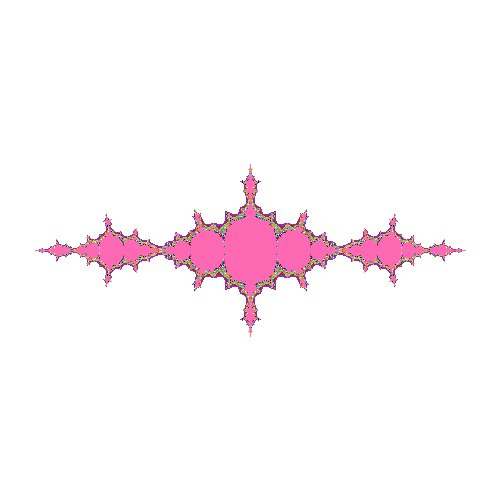
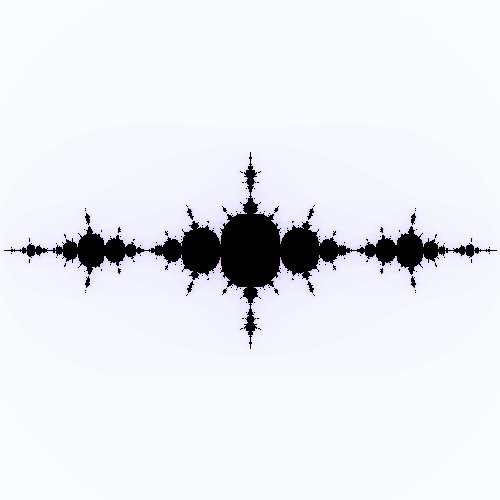
放大，颜色优化

Changed region(s): [[0.0, 0.3, 0.99, 0.69]]

diff --git a/fractal/colors.py b/fractal/colors.py
@@ -1,2 +1,11 @@
-colors = [[255, 250, 250], [187, 255, 255], [248, 248, 255], [174, 238, 238], [245, 245, 245], [150, 205, 205], [220, 220, 220], [102, 139, 139], [255, 250, 240], [152, 245, 255], [253, 245, 230], [142, 229, 238], [250, 240, 230], [122, 197, 205], [250, 235, 215], [83, 134, 139], [255, 239, 213], [0, 245, 255], [255, 235, 205], [0, 229, 238], [255, 228, 196], [0, 197, 205], [255, 218, 185], [0, 134, 139], [255, 222, 173], [0, 255, 255], [255, 228, 181], [0, 238, 238], [255, 248, 220], [0, 205, 205], [255, 255, 240], [0, 139, 139], [255, 250, 205], [151, 255, 255], [255, 245, 238], [141, 238, 238], [240, 255, 240], [121, 205, 205], [245, 255, 250], [82, 139, 139], [240, 255, 255], [127, 255, 212], [240, 248, 255], [118, 238, 198], [230, 230, 250], [102, 205, 170], [255, 240, 245], [69, 139, 116], [255, 228, 225], [193, 255, 193], [255, 255, 255], [180, 238, 180], [0, 0, 0], [155, 205, 155], [47, 79, 79], [105, 139, 105], [105, 105, 105], [84, 255, 159], [112, 128, 144], [78, 238, 148], [119, 136, 153], [67, 205, 128], [190, 190, 190], [46, 139, 87], [211, 211, 211], [154, 255, 154], [25, 25, 112], [144, 238, 144], [0, 0, 128], [124, 205, 124], [100, 149, 237], [84, 139, 84], [72, 61, 139], [0, 255, 127], [106, 90, 205], [0, 238, 118], [123, 104, 238], [0, 205, 102], [132, 112, 255], [0, 139, 69], [0, 0, 205], [0, 255, 0], [65, 105, 225], [0, 238, 0], [0, 0, 255], [0, 205, 0], [30, 144, 255], [0, 139, 0], [0, 191, 255], [127, 255, 0], [135, 206, 235], [118, 238, 0], [135, 206, 250], [102, 205, 0], [70, 130, 180], [69, 139, 0], [176, 196, 222], [192, 255, 62], [173, 216, 230], [179, 238, 58], [176, 224, 230], [154, 205, 50], [175, 238, 238], [105, 139, 34], [0, 206, 209], [202, 255, 112], [72, 209, 204], [188, 238, 104], [64, 224, 208], [162, 205, 90], [0, 255, 255], [110, 139, 61], [224, 255, 255], [255, 246, 143], [95, 158, 160], [238, 230, 133], [102, 205, 170], [205, 198, 115], [127, 255, 212], [139, 134, 78], [0, 100, 0], [255, 236, 139], [85, 107, 47], [238, 220, 130], [143, 188, 143], [205, 190, 112], [46, 139, 87], [139, 129, 76], [60, 179, 113], [255, 255, 224], [32, 178, 170], [238, 238, 209], [152, 251, 152], [205, 205, 180], [0, 255, 127], [139, 139, 122], [124, 252, 0], [255, 255, 0], [0, 255, 0], [238, 238, 0], [127, 255, 0], [205, 205, 0], [0, 250, 154], [139, 139, 0], [173, 255, 47], [255, 215, 0], [50, 205, 50], [238, 201, 0], [154, 205, 50], [205, 173, 0], [34, 139, 34], [139, 117, 0], [107, 142, 35], [255, 193, 37], [189, 183, 107], [238, 180, 34], [238, 232, 170], [205, 155, 29], [250, 250, 210], [139, 105, 20], [255, 255, 224], [255, 185, 15], [255, 255, 0], [238, 173, 14], [255, 215, 0], [205, 149, 12], [238, 221, 130], [139, 101, 139], [218, 165, 32], [255, 193, 193], [184, 134, 11], [238, 180, 180], [188, 143, 143], [205, 155, 155], [205, 92, 92], [139, 105, 105], [139, 69, 19], [255, 106, 106], [160, 82, 45], [238, 99, 99], [205, 133, 63], [205, 85, 85], [222, 184, 135], [139, 58, 58], [245, 245, 220], [255, 130, 71], [245, 222, 179], [238, 121, 66], [244, 164, 96], [205, 104, 57], [210, 180, 140], [139, 71, 38], [210, 105, 30], [255, 211, 155], [178, 34, 34], [238, 197, 145], [165, 42, 42], [205, 170, 125], [233, 150, 122], [139, 115, 85], [250, 128, 114], [255, 231, 186], [255, 160, 122], [238, 216, 174], [255, 165, 0], [205, 186, 150], [255, 140, 0], [139, 126, 102], [255, 127, 80], [255, 165, 79], [240, 128, 128], [238, 154, 73], [255, 99, 71], [205, 133, 63], [255, 69, 0], [139, 90, 43], [255, 0, 0], [255, 127, 36], [255, 105, 180], [238, 118, 33], [255, 20, 147], [205, 102, 29], [255, 192, 203], [139, 69, 19], [255, 182, 193], [255, 48, 48], [219, 112, 147], [238, 44, 44], [
-    176, 48, 96], [205, 38, 38], [199, 21, 133], [139, 26, 26], [208, 32, 144], [255, 64, 64], [255, 0, 255], [238, 59, 59], [238, 130, 238], [205, 51, 51], [221, 160, 221], [139, 35, 35], [218, 112, 214], [255, 140, 105], [186, 85, 211], [238, 130, 98], [153, 50, 204], [205, 112, 84], [148, 0, 211], [139, 76, 57], [138, 43, 226], [255, 160, 122], [160, 32, 240], [238, 149, 114], [147, 112, 219], [205, 129, 98], [216, 191, 216], [139, 87, 66], [255, 250, 250], [255, 165, 0], [238, 233, 233], [238, 154, 0], [205, 201, 201], [205, 133, 0], [139, 137, 137], [139, 90, 0], [255, 245, 238], [255, 127, 0], [238, 229, 222], [238, 118, 0], [205, 197, 191], [205, 102, 0], [139, 134, 130], [139, 69, 0], [255, 239, 219], [255, 114, 86], [238, 223, 204], [238, 106, 80], [205, 192, 176], [205, 91, 69], [139, 131, 120], [139, 62, 47], [255, 228, 196], [255, 99, 71], [238, 213, 183], [238, 92, 66], [205, 183, 158], [205, 79, 57], [139, 125, 107], [139, 54, 38], [255, 218, 185], [255, 69, 0], [238, 203, 173], [238, 64, 0], [205, 175, 149], [205, 55, 0], [139, 119, 101], [139, 37, 0], [255, 222, 173], [255, 0, 0], [238, 207, 161], [238, 0, 0], [205, 179, 139], [205, 0, 0], [139, 121, 94], [139, 0, 0], [255, 250, 205], [255, 20, 147], [238, 233, 191], [238, 18, 137], [205, 201, 165], [205, 16, 118], [139, 137, 112], [139, 10, 80], [255, 248, 220], [255, 110, 180], [238, 232, 205], [238, 106, 167], [205, 200, 177], [205, 96, 144], [139, 136, 120], [139, 58, 98], [255, 255, 240], [255, 181, 197], [238, 238, 224], [238, 169, 184], [205, 205, 193], [205, 145, 158], [139, 139, 131], [139, 99, 108], [240, 255, 240], [255, 174, 185], [224, 238, 224], [238, 162, 173], [193, 205, 193], [205, 140, 149], [131, 139, 131], [139, 95, 101], [255, 240, 245], [255, 130, 171], [238, 224, 229], [238, 121, 159], [205, 193, 197], [205, 104, 137], [139, 131, 134], [139, 71, 93], [255, 228, 225], [255, 52, 179], [238, 213, 210], [238, 48, 167], [205, 183, 181], [205, 41, 144], [139, 125, 123], [139, 28, 98], [240, 255, 255], [255, 62, 150], [224, 238, 238], [238, 58, 140], [193, 205, 205], [205, 50, 120], [131, 139, 139], [139, 34, 82], [131, 111, 255], [255, 0, 255], [122, 103, 238], [238, 0, 238], [105, 89, 205], [205, 0, 205], [71, 60, 139], [139, 0, 139], [72, 118, 255], [255, 131, 250], [67, 110, 238], [238, 122, 233], [58, 95, 205], [205, 105, 201], [39, 64, 139], [139, 71, 137], [0, 0, 255], [255, 187, 255], [0, 0, 238], [238, 174, 238], [0, 0, 205], [205, 150, 205], [0, 0, 139], [139, 102, 139], [30, 144, 255], [224, 102, 255], [28, 134, 238], [209, 95, 238], [24, 116, 205], [180, 82, 205], [16, 78, 139], [122, 55, 139], [99, 184, 255], [191, 62, 255], [92, 172, 238], [178, 58, 238], [79, 148, 205], [154, 50, 205], [54, 100, 139], [104, 34, 139], [0, 191, 255], [155, 48, 255], [0, 178, 238], [145, 44, 238], [0, 154, 205], [125, 38, 205], [0, 104, 139], [85, 26, 139], [135, 206, 255], [171, 130, 255], [126, 192, 238], [159, 121, 238], [108, 166, 205], [137, 104, 205], [74, 112, 139], [93, 71, 139], [176, 226, 255], [255, 225, 255], [164, 211, 238], [238, 210, 238], [141, 182, 205], [205, 181, 205], [96, 123, 139], [139, 123, 139], [198, 226, 255], [28, 28, 28], [185, 211, 238], [54, 54, 54], [159, 182, 205], [79, 79, 79], [108, 123, 139], [105, 105, 105], [202, 225, 255], [130, 130, 130], [188, 210, 238], [156, 156, 156], [162, 181, 205], [181, 181, 181], [110, 123, 139], [207, 207, 207], [191, 239, 255], [232, 232, 232], [178, 223, 238], [169, 169, 169], [154, 192, 205], [0, 0, 139], [104, 131, 139], [0, 139, 139], [224, 255, 255], [139, 0, 139], [209, 238, 238], [139, 0, 0], [180, 205, 205], [122, 139, 139], [144, 238, 144]]
+blues = [(250, 251, 255), (250, 251, 255), (249, 250, 254), (248, 249, 253), (247, 248, 253), (246, 247, 252), (245, 245, 253), (245, 245, 253), (244, 244, 254), (243, 243, 253), (242, 242, 254), (242, 242, 254), (242, 241, 255), (241, 240, 254), (239, 238, 252), (237, 236, 250), (236, 235, 253), (236, 234, 255), (236, 234, 255), (235, 233, 254), (233, 231, 252), (232, 230, 252), (230, 228, 250), (229, 227, 251), (230, 227, 254), (229, 226, 253), (228, 225, 254), (227, 224, 253), (226, 223, 252), (224, 221, 252), (223, 220, 251), (223, 220, 251), (217, 215, 254), (217, 215, 254), (216, 214, 253), (215, 213, 252), (213, 211, 251), (212, 209, 252), (211, 208, 253), (211, 208, 253), (208, 205, 252), (207, 203, 253), (206, 202, 253), (204, 200, 251), (203, 198, 252), (201, 196, 250), (200, 195, 251), (199, 194, 250), (197, 194, 251), (196, 192, 251), (195, 191, 250), (193, 189, 250), (192, 187, 251), (190, 185, 249), (189, 184, 250), (188, 182, 252), (187, 181, 253), (185, 179, 253), (182, 175, 252), (181, 174, 252), (181, 174, 252), (180, 173, 253), (178, 170, 253), (176, 168, 251), (175, 166, 255), (173, 164, 253), (171, 162, 251), (170, 161, 252), (170, 161, 254), (169, 159, 255), (166, 156, 253), (164, 154, 253), (164, 153, 255), (162, 151, 255), (159, 148, 253), (158, 146, 254), (157, 145, 255), (156, 144, 254), (153, 141, 253), (151, 139, 251), (148, 137, 255), (148, 137, 255), (146, 135, 253), (144, 133, 253),
+         (142, 131, 253), (140, 128, 252), (139, 127, 253), (138, 126, 254), (138, 125, 255), (136, 123, 255), (134, 120, 255), (132, 118, 255), (131, 117, 255), (130, 116, 255), (128, 113, 254), (126, 111, 252), (122, 108, 253), (121, 107, 252), (120, 106, 251), (119, 105, 252), (117, 103, 252), (115, 100, 251), (114, 99, 252), (113, 98, 253), (111, 95, 253), (110, 94, 253), (109, 93, 254), (107, 90, 254), (105, 88, 254), (104, 87, 253), (103, 86, 254), (102, 85, 253), (98, 81, 255), (98, 81, 255), (96, 79, 255), (95, 78, 254), (93, 76, 253), (91, 73, 253), (90, 72, 254), (90, 72, 255), (87, 68, 254), (86, 67, 255), (85, 66, 255), (83, 63, 255), (82, 62, 255), (80, 60, 255), (79, 59, 255), (78, 58, 254), (76, 55, 255), (76, 55, 255), (74, 53, 254), (73, 52, 255), (71, 50, 253), (69, 47, 252), (68, 46, 253), (68, 46, 255), (65, 43, 252), (64, 41, 253), (63, 40, 254), (62, 38, 254), (61, 37, 253), (59, 35, 253), (58, 34, 252), (58, 34, 252), (54, 32, 254), (54, 32, 255), (53, 31, 254), (51, 29, 252), (50, 27, 253), (49, 26, 254), (48, 25, 253), (47, 24, 254), (45, 21, 253), (45, 21, 255), (44, 20, 255), (43, 19, 255), (42, 17, 255), (41, 16, 255), (41, 16, 255), (40, 15, 255), (36, 12, 254), (36, 12, 254), (35, 11, 253), (34, 10, 252), (33, 9, 253), (32, 8, 252), (32, 8, 254), (31, 7, 253), (30, 5, 254), (30, 5, 254), (29, 4, 254), (28, 3, 253), (27, 2, 254), (26, 1, 253), (26, 1, 253), (25, 0, 252), (25, 0, 252)]
+
+reds = [(253, 252, 250), (253, 252, 250), (252, 251, 249), (252, 251, 249), (253, 249, 248), (252, 248, 247), (253, 247, 247), (252, 246, 246), (254, 245, 246), (253, 244, 245), (253, 243, 244), (252, 242, 243), (252, 240, 242), (251, 239, 241), (251, 239, 241), (250, 238, 240), (252, 236, 237), (252, 236, 237), (253, 234, 236), (252, 233, 235), (252, 232, 234), (251, 231, 233), (252, 230, 233), (253, 228, 232), (252, 225, 230), (252, 225, 230), (253, 224, 229), (253, 222, 228), (253, 220, 227), (252, 219, 226), (252, 219, 226), (251, 218, 225), (254, 214, 222), (254, 214, 222), (253, 213, 221), (252, 212, 220), (252, 211, 219), (252, 209, 218), (254, 208, 218), (253, 207, 217), (253, 206, 216), (254, 204, 215), (254, 202, 214), (253, 201, 213), (252, 198, 211), (251, 197, 210), (252, 196, 209), (252, 196, 209), (253, 193, 205), (253, 191, 204), (252, 190, 203), (252, 188, 202), (250, 186, 200), (251, 185, 197), (251, 183, 196), (253, 182, 196), (253, 179, 194), (254, 178, 191), (254, 176, 190), (255, 174, 189), (254, 173, 188), (253, 170, 186), (252, 170, 184), (253, 169, 184), (254, 165, 183), (253, 164, 182), (251, 162, 180), (252, 161, 179), (253, 160, 179), (252, 159, 178), (253, 156, 175), (252, 153, 173), (253, 151, 172), (253, 150, 171), (254, 148, 168), (254, 147, 167), (254, 145, 166), (252, 143, 164), (253, 141, 163), (253, 141, 163), (254, 136, 162), (254, 136, 162), (253, 135, 159), (252, 132, 157), (253, 131, 156), (252, 130, 155),
+        (254, 127, 154), (254, 126, 151), (254, 124, 150), (254, 121, 148), (253, 119, 146), (254, 117, 143), (255, 117, 143), (254, 116, 142), (253, 113, 140), (251, 111, 138), (254, 109, 140), (253, 108, 139), (252, 107, 138), (252, 104, 136), (252, 103, 133), (251, 100, 131), (252, 99, 130), (252, 97, 129), (252, 95, 126), (253, 94, 126), (253, 92, 125), (254, 90, 124), (253, 88, 120), (252, 87, 119), (253, 85, 118), (252, 84, 117), (253, 82, 116), (252, 81, 115), (251, 80, 114), (252, 78, 113), (251, 75, 111), (252, 74, 110), (252, 72, 109), (253, 71, 109), (253, 69, 107), (253, 67, 106), (254, 65, 105), (254, 63, 104), (254, 62, 103), (252, 60, 101), (253, 58, 100), (253, 58, 100), (255, 55, 94), (255, 55, 94), (255, 53, 93), (253, 51, 91), (254, 49, 90), (254, 47, 89), (253, 46, 88), (254, 45, 87), (254, 43, 86), (255, 42, 86), (255, 41, 85), (254, 39, 83), (254, 37, 82), (253, 36, 81), (254, 34, 80), (253, 33, 79), (253, 32, 75), (253, 32, 75), (252, 31, 74), (252, 29, 73), (251, 28, 72), (252, 27, 71), (253, 26, 71), (254, 24, 70), (253, 22, 68), (253, 22, 68), (253, 20, 67), (254, 18, 66), (253, 17, 65), (253, 15, 64), (253, 15, 64), (252, 14, 63), (253, 11, 59), (253, 11, 59), (253, 11, 59), (253, 10, 58), (252, 9, 57), (254, 8, 57), (253, 7, 56), (254, 6, 56), (253, 5, 55), (255, 4, 55), (254, 3, 54), (255, 3, 54), (254, 2, 53), (253, 1, 52), (254, 0, 52), (253, 0, 51), (255, 0, 58), (204, 25, 64), (175, 140, 136), (225, 249, 233)]
+
+purples = [(235, 233, 236), (235, 233, 236), (235, 233, 236), (236, 231, 235), (235, 230, 236), (235, 230, 236), (234, 229, 236), (234, 229, 236), (237, 229, 240), (236, 228, 239), (235, 227, 240), (236, 225, 239), (235, 224, 240), (234, 223, 239), (234, 223, 239), (233, 222, 238), (234, 221, 239), (233, 220, 238), (232, 219, 237), (232, 219, 237), (230, 217, 237), (230, 217, 237), (230, 215, 238), (229, 214, 237), (228, 212, 238), (229, 211, 237), (228, 209, 237), (228, 209, 237), (226, 207, 237), (226, 207, 237), (225, 206, 236), (225, 204, 235), (225, 200, 239), (225, 200, 239), (224, 199, 238), (223, 198, 237), (223, 196, 237), (222, 195, 236), (223, 194, 238), (222, 193, 237), (222, 190, 237), (222, 190, 237), (222, 188, 238), (221, 187, 237), (221, 184, 236), (220, 183, 235), (219, 182, 234), (218, 181, 233), (218, 179, 236), (218, 179, 236), (217, 177, 237), (216, 176, 236), (215, 173, 236), (214, 172, 235), (215, 170, 235), (215, 170, 237), (214, 167, 237), (213, 166, 236), (214, 164, 237), (213, 162, 237), (213, 160, 238), (211, 158, 236), (210, 157, 235), (210, 157, 235), (210, 155, 238), (209, 154, 237), (210, 152, 237), (209, 151, 236), (208, 150, 237), (207, 147, 235), (206, 146, 236), (208, 144, 238), (206, 142, 238), (206, 140, 238), (205, 139, 237), (205, 137, 238), (204, 136, 239), (205, 134, 238), (204, 133, 237), (203, 132, 238), (202, 128, 239), (202, 128, 239), (203, 126, 238), (201, 124, 238), (200, 123, 237),
+           (200, 121, 238), (199, 120, 239), (199, 118, 238), (197, 116, 237), (198, 114, 238), (197, 112, 239), (197, 111, 238), (195, 108, 238), (196, 106, 238), (195, 105, 237), (195, 105, 237), (192, 102, 236), (191, 101, 235), (191, 99, 236), (190, 98, 235), (189, 96, 236), (189, 95, 235), (188, 93, 235), (189, 91, 236), (187, 89, 236), (188, 88, 238), (187, 87, 237), (187, 84, 237), (186, 82, 237), (186, 81, 236), (185, 80, 235), (184, 78, 236), (182, 76, 236), (183, 75, 236), (182, 74, 237), (181, 73, 236), (179, 71, 235), (180, 69, 234), (179, 68, 235), (180, 67, 237), (181, 65, 238), (181, 64, 239), (181, 62, 238), (180, 61, 239), (178, 59, 239), (178, 57, 238), (177, 56, 237), (176, 55, 238), (176, 52, 238), (175, 51, 237), (175, 50, 238), (174, 49, 237), (174, 48, 236), (173, 46, 237), (174, 45, 236), (174, 44, 238), (173, 41, 236), (172, 40, 237), (174, 39, 238), (173, 38, 237), (173, 36, 236), (172, 35, 237), (171, 34, 236), (171, 34, 236), (169, 31, 238), (168, 30, 237), (169, 29, 239), (168, 28, 238), (167, 27, 237), (166, 26, 237), (165, 25, 236), (167, 24, 238), (166, 23, 237), (165, 22, 238), (164, 21, 237), (165, 19, 239), (163, 17, 237), (163, 17, 238), (162, 16, 237), (161, 15, 236), (163, 12, 239), (162, 11, 238), (162, 11, 238), (161, 10, 237), (161, 10, 237), (160, 9, 238), (160, 7, 237), (160, 7, 237), (158, 5, 235), (160, 4, 236), (160, 4, 236), (159, 3, 235), (158, 2, 234), (158, 2, 234), (158, 0, 235)]
+
+yellows = [(250, 248, 249), (249, 247, 248), (249, 247, 248), (249, 247, 248), (249, 248, 246), (248, 247, 245), (248, 247, 243), (248, 247, 243), (248, 247, 242), (248, 247, 242), (248, 248, 240), (248, 248, 240), (248, 248, 238), (248, 248, 238), (248, 248, 238), (248, 248, 238), (250, 248, 235), (250, 248, 235), (250, 248, 233), (250, 248, 233), (250, 249, 231), (250, 249, 231), (250, 249, 229), (250, 249, 228), (248, 248, 224), (248, 248, 222), (248, 248, 222), (248, 248, 220), (248, 249, 218), (248, 249, 218), (248, 249, 218), (248, 249, 217), (252, 249, 214), (252, 249, 214), (252, 249, 214), (251, 249, 211), (251, 249, 211), (251, 249, 210), (250, 248, 207), (250, 248, 207), (250, 249, 205), (250, 249, 203), (250, 249, 201), (250, 250, 200), (249, 249, 199), (249, 249, 197), (249, 249, 197), (249, 249, 197), (250, 249, 193), (250, 249, 192), (250, 249, 192), (250, 250, 190), (249, 249, 187), (249, 249, 187), (249, 249, 185), (249, 250, 182), (249, 250, 180), (249, 251, 178), (248, 250, 175), (248, 251, 174), (248, 251, 174), (247, 250, 171), (247, 250, 169), (247, 250, 169), (248, 250, 167), (250, 249, 166), (250, 249, 166), (249, 249, 163), (249, 249, 161), (249, 249, 161), (248, 248, 158), (249, 248, 155), (249, 249, 153), (249, 249, 151), (251, 249, 149), (250, 248, 147), (250, 248, 147), (250, 248, 145), (250, 249, 143), (249, 248, 142), (247, 249, 139), (247, 250, 137), (247, 250, 137), (249, 249, 135), (248, 249, 132), (248, 249, 132), (248, 249, 130),
+           (248, 250, 127), (250, 250, 126), (249, 250, 123), (249, 250, 122), (250, 250, 120), (250, 250, 120), (249, 249, 117), (249, 249, 115), (249, 249, 115), (249, 250, 112), (249, 250, 110), (248, 249, 109), (248, 250, 107), (248, 250, 105), (249, 248, 104), (249, 249, 103), (249, 249, 99), (248, 249, 96), (249, 248, 95), (249, 249, 93), (248, 248, 90), (248, 248, 90), (248, 248, 88), (250, 248, 86), (249, 247, 85), (249, 250, 84), (251, 250, 84), (251, 250, 84), (251, 250, 82), (250, 249, 79), (250, 250, 78), (250, 250, 76), (250, 249, 73), (249, 248, 70), (249, 248, 69), (250, 248, 67), (250, 248, 65), (249, 248, 62), (249, 248, 62), (249, 248, 60), (249, 248, 60), (251, 248, 57), (251, 248, 57), (250, 247, 54), (250, 247, 54), (250, 248, 52), (249, 247, 51), (249, 247, 50), (249, 247, 48), (250, 249, 47), (250, 249, 45), (249, 248, 44), (249, 248, 42), (249, 249, 41), (249, 249, 41), (248, 248, 40), (248, 248, 38), (250, 249, 35), (250, 249, 35), (250, 249, 35), (249, 248, 33), (249, 248, 33), (249, 249, 31), (248, 248, 28), (248, 248, 28), (248, 248, 26), (248, 249, 25), (248, 249, 23), (248, 249, 21), (248, 249, 21), (248, 250, 19), (248, 250, 19), (248, 250, 19), (249, 249, 15), (249, 249, 15), (249, 249, 15), (249, 249, 15), (249, 249, 13), (249, 249, 13), (249, 249, 11), (249, 249, 11), (249, 250, 9), (249, 250, 9), (249, 250, 8), (249, 250, 8), (248, 249, 5), (248, 249, 5), (248, 249, 5), (248, 249, 5), (248, 248, 0), (248, 248, 0), (248, 248, 0), (248, 248, 0)]

diff --git a/fractal/julia.py b/fractal/julia.py
@@ -4,9 +4,7 @@ Julia集
 
 import pygame
 from .base import Base
-
-colors = [[240, 248, 255], [250, 235, 215], [0, 255, 255], [127, 255, 212], [240, 255, 255], [245, 245, 220], [255, 228, 196], [0, 0, 0], [255, 235, 205], [0, 0, 255], [138, 43, 226], [165, 42, 42], [222, 184, 135], [95, 158, 160], [127, 255, 0], [210, 105, 30], [255, 127, 80], [100, 149, 237], [255, 248, 220], [220, 20, 60], [0, 255, 255], [0, 0, 139], [0, 139, 139], [184, 134, 11], [169, 169, 169], [0, 100, 0], [169, 169, 169], [189, 183, 107], [139, 0, 139], [85, 107, 47], [255, 140, 0], [153, 50, 204], [139, 0, 0], [233, 150, 122], [143, 188, 143], [72, 61, 139], [47, 79, 79], [47, 79, 79], [0, 206, 209], [148, 0, 211], [255, 20, 147], [0, 191, 255], [105, 105, 105], [105, 105, 105], [30, 144, 255], [178, 34, 34], [255, 250, 240], [34, 139, 34], [255, 0, 255], [220, 220, 220], [248, 248, 255], [255, 215, 0], [218, 165, 32], [128, 128, 128], [0, 128, 0], [173, 255, 47], [128, 128, 128], [240, 255, 240], [255, 105, 180], [205, 92, 92], [75, 0, 130], [255, 255, 240], [240, 230, 140], [230, 230, 250], [255, 240, 245], [124, 252, 0], [255, 250, 205], [173, 216, 230], [240, 128, 128], [224, 255, 255], [250, 250, 210], [211, 211, 211], [144, 238, 144], [211, 211, 211], [
-    255, 182, 193], [255, 160, 122], [32, 178, 170], [135, 206, 250], [119, 136, 153], [119, 136, 153], [176, 196, 222], [255, 255, 224], [0, 255, 0], [50, 205, 50], [250, 240, 230], [255, 0, 255], [128, 0, 0], [102, 205, 170], [0, 0, 205], [186, 85, 211], [147, 112, 219], [60, 179, 113], [123, 104, 238], [0, 250, 154], [72, 209, 204], [199, 21, 133], [25, 25, 112], [245, 255, 250], [255, 228, 225], [255, 228, 181], [255, 222, 173], [0, 0, 128], [253, 245, 230], [128, 128, 0], [107, 142, 35], [255, 165, 0], [255, 69, 0], [218, 112, 214], [238, 232, 170], [152, 251, 152], [175, 238, 238], [219, 112, 147], [255, 239, 213], [255, 218, 185], [205, 133, 63], [255, 192, 203], [221, 160, 221], [176, 224, 230], [128, 0, 128], [255, 0, 0], [188, 143, 143], [65, 105, 225], [139, 69, 19], [250, 128, 114], [244, 164, 96], [46, 139, 87], [255, 245, 238], [160, 82, 45], [192, 192, 192], [135, 206, 235], [106, 90, 205], [112, 128, 144], [112, 128, 144], [255, 250, 250], [0, 255, 127], [70, 130, 180], [210, 180, 140], [0, 128, 128], [216, 191, 216], [255, 99, 71], [64, 224, 208], [238, 130, 238], [245, 222, 179], [255, 255, 255], [245, 245, 245], [255, 255, 0], [154, 205, 50]]
+from .colors import *
 
 
 class Julia(Base):
@@ -16,17 +14,14 @@ class Julia(Base):
         self.setExp(2)
         self.setC(None)
         self.setRadius(2)
-        self.selectArea([0, 0], size[0], size[1])
+        self.width = size[0]
+        self.height = size[1]
+        self.setRange(3.5, 3.5)
+        self.setCentre(0 + 0j)
 
     def setRadius(self, R):
         # 设置逃逸半径
         self.R = R
-
-    def selectArea(self, start, width, height):
-        # 产生Julia集的区域
-        self.start = start
-        self.width = int(width)
-        self.height = int(height)
 
     def setC(self, C):
         # 设置参考值C
@@ -36,14 +31,35 @@ class Julia(Base):
         # 设置指数，默认2
         self.expc = expc
 
-    def color(self, i):
+    def color(self, i, r=2):
         # 对第i次迭代点着色，返回RGB值
-        if i < 10:
-            return [255, 255, 255]
-        return colors[i % len(colors)]
+        if i < 20:
+            return blues[2 * i]
+        elif i < len(purples) - 1:
+            return purples[i]
+        return (0, 0, 0)
 
     def setColor(self, call):
         self.color = call
+
+    def setCentre(self, z0):
+        # 设置中心点
+        self.z0 = z0
+
+    def setRange(self, xmax, ymax):
+        # 设置坐标范围，范围越小图放大倍数越高
+        self.xmax = xmax
+        self.ymax = ymax
+
+    def __getXY(self, i, j):
+        # 通过像素坐标获取映射后的坐标
+        return complex((i / self.width - 0.5) * self.xmax + self.z0.real, (j / self.height - 0.5) * self.ymax + self.z0.imag)
+
+    def scala(self, i, j, rate):
+        # 将(i, j)像素点置于中心位置，放大rete倍
+        self.setCentre(self.__getXY(i, j))
+        self.xmax /= rate
+        self.ymax /= rate
 
     def __run(self):
         # 线程中
@@ -51,18 +67,22 @@ class Julia(Base):
         if self.C == None:
             raise Exception("请设置迭代常数")
             return
+        # res = {}
         for i in range(self.width):
             for j in range(self.height):
                 ct = 0  # 当前迭代次数
-                z = complex(4 * i / self.width - 2,
-                            4 * j / self.height - 2)
+                z = self.__getXY(i, j)
                 for k in range(N):
                     ct = k
                     if abs(z) > self.R:  # 大于逃逸半径，则返回
                         break
-                    z = z**2 + self.C
-                self.screen.set_at(
-                    [self.start[0] + i, self.start[1] + j], self.color(ct))
+                    # if ct not in res:
+                    #     res[ct] = 1
+                    # else:
+                    #     res[ct] += 1
+                    z = z**self.expc + self.C
+                self.screen.set_at([i, j], self.color(ct, abs(z)))
+        # print(res)
 
     def doJulia(self, N):
         # 进入迭代

diff --git a/fractal/base.py b/fractal/base.py
@@ -1,30 +1,37 @@
 """
     基类
+    打印图片：Ctrl+P
+    放大：点击放大部分鼠标左键
+    缩小：点击缩小部分鼠标右键
 """
 
 import pygame
+from pygame.locals import K_p, K_LCTRL, K_RCTRL  # 按下Ctrl + P键打印
 import threading
+import time
 
 
 class Base(object):
 
-    def __init__(self, size,callRun, title=""):
+    def __init__(self, size, callRun, title=""):
         """
             size: 画布尺寸
             callRun: 子类的绘画函数回掉
             title: 画布标题
         """
         self.__run = callRun
+        self.title = title
         pygame.init()
         self.screen = pygame.display.set_mode(size)
         pygame.display.set_caption(title)
         self.screen.fill([255, 255, 255])
         self.psave = False
+        self.scalaRate = 4  # 放大（缩小）倍数
+        self.ctrl = False  # Ctrl键按下
 
     def save(self, title):
         # 保存图片，title为文件名
-        self.psave = True
-        self.ftitle = title
+        pygame.image.save(self.screen, title)
 
     def wait(self):
         # 等待用户关闭
@@ -32,9 +39,27 @@ class Base(object):
         th.start()
         while 1:
             for event in pygame.event.get():
-                if event.type == pygame.QUIT:
-                    exit()
-            if not th.is_alive():
-                if self.psave:
-                    pygame.image.save(self.screen, self.ftitle)
+                if not th.is_alive():  # 必须绘图结束才可操作
+                    if event.type == pygame.QUIT:
+                        exit()
+                    if event.type == pygame.KEYDOWN:
+                        if event.key == K_p and self.ctrl:
+                            if self.title == "":
+                                self.title = "game"
+                            self.save(self.title + ".jpg")
+                            self.ctrl = False
+                        if event.key == K_LCTRL or event.key == K_RCTRL:
+                            self.ctrl = True
+                    if event.type == pygame.MOUSEBUTTONDOWN:
+                        if event.button == 1 and hasattr(self, "scala"):  # 鼠标左键放大
+                            i, j = event.pos
+                            self.scala(i, j, self.scalaRate)
+                            th = threading.Thread(target=self.__run)
+                            th.start()
+                        # 鼠标右键缩小
+                        elif event.button == 3 and hasattr(self, "scala"):
+                            i, j = event.pos
+                            self.scala(i, j, 1 / self.scalaRate)
+                            th = threading.Thread(target=self.__run)
+                            th.start()
             pygame.display.flip()

diff --git a/fractal/mandelbrot.py b/fractal/mandelbrot.py
@@ -1,5 +1,5 @@
 import pygame
-from fractal.julia import colors
+from .colors import *
 from .base import Base
 
 
@@ -9,8 +9,11 @@ class Mandelbrot(Base):
         Base.__init__(self, size, self.__run, title)
         self.setExp(2)
         self.setRadius(2)
-        self.selectArea([0, 0], size[0], size[1])
         self.setZ0(0 + 0j)
+        self.width = size[0]
+        self.height = size[1]
+        self.setRange(3.5, 3.5)
+        self.setCentre(0 + 0j)
 
     def setRadius(self, R):
         # 设置逃逸半径
@@ -20,21 +23,36 @@ class Mandelbrot(Base):
         # 设置起始迭代复数（一般为0+0j）
         self.Z0 = Z0
 
-    def selectArea(self, start, width, height):
-        # 产生 Mandelbrot 集的区域
-        self.start = start
-        self.width = int(width)
-        self.height = int(height)
+    def setCentre(self, z0):
+        # 设置中心点
+        self.z0 = z0
+
+    def setRange(self, xmax, ymax):
+        # 设置坐标范围，范围越小图放大倍数越高
+        self.xmax = xmax
+        self.ymax = ymax
+
+    def __getXY(self, i, j):
+        # 通过像素坐标获取映射后的坐标
+        return complex((i / self.width - 0.5) * self.xmax + self.z0.real, (j / self.height - 0.5) * self.ymax + self.z0.imag)
+
+    def scala(self, i, j, rate):
+        # 将(i, j)像素点置于中心位置，放大rete倍
+        self.setCentre(self.__getXY(i, j))
+        self.xmax /= rate
+        self.ymax /= rate
 
     def setExp(self, expc):
         # 设置指数，默认2
         self.expc = expc
 
-    def color(self, i):
+    def color(self, i, r=2):
         # 对第i次迭代点着色，返回RGB值
-        if i < 10:
-            return [255, 255, 255]
-        return colors[i % len(colors)]
+        if i < 20:
+            return blues[2 * i]
+        elif i < len(purples) - 1:
+            return purples[i]
+        return (0, 0, 0)
 
     def setColor(self, call):
         self.color = call
@@ -46,15 +64,13 @@ class Mandelbrot(Base):
             for j in range(self.height):
                 ct = 0  # 当前迭代次数
                 z = self.Z0
-                c = complex(4 * i / self.width - 2,
-                            4 * j / self.height - 2)
+                c = self.__getXY(i, j)
                 for k in range(N):
                     ct = k
                     if abs(z) > self.R:  # 大于逃逸半径，则返回
                         break
-                    z = z**2 + c
-                self.screen.set_at(
-                    [self.start[0] + i, self.start[1] + j], self.color(ct))
+                    z = z**self.expc + c
+                self.screen.set_at([i, j], self.color(ct))
 
     def doMandelbrot(self, N):
         # 开始迭代

diff --git a/setup.py b/setup.py
@@ -2,7 +2,7 @@ from setuptools import setup, find_packages
 
 setup(
     name="fractal",
-    version="0.2.2",
+    version="0.2.3",
     keywords=["fractal", "分形"],
     description="对分形比较感兴趣，看pypi上没有相关库，自己撸着玩",
     license="MIT",

diff --git a/README.md b/README.md
@@ -201,6 +201,8 @@ ju.wait()
 
 ![](fenxing_images/ju6.jpg)
 
+![](fenxing_images/ju62.jpg)
+
 ### Mandelbrot
 
 
@@ -208,9 +210,18 @@ ju.wait()
 ```python
 from fractal import Mandelbrot
 man = Mandelbrot([500, 500])
-man.doMandelbrot(500)
+man.setRange(5, 5)
+man.doMandelbrot(200)
 man.wait()
 ```
 
 ![](fenxing_images/mandelbrot.jpg)
+
+![](fenxing_images/mandelbrot2.jpg)
+
+![](fenxing_images/mandelbrot3.jpg)
+
+![](fenxing_images/mandelbrot4.jpg)
+
+
 
